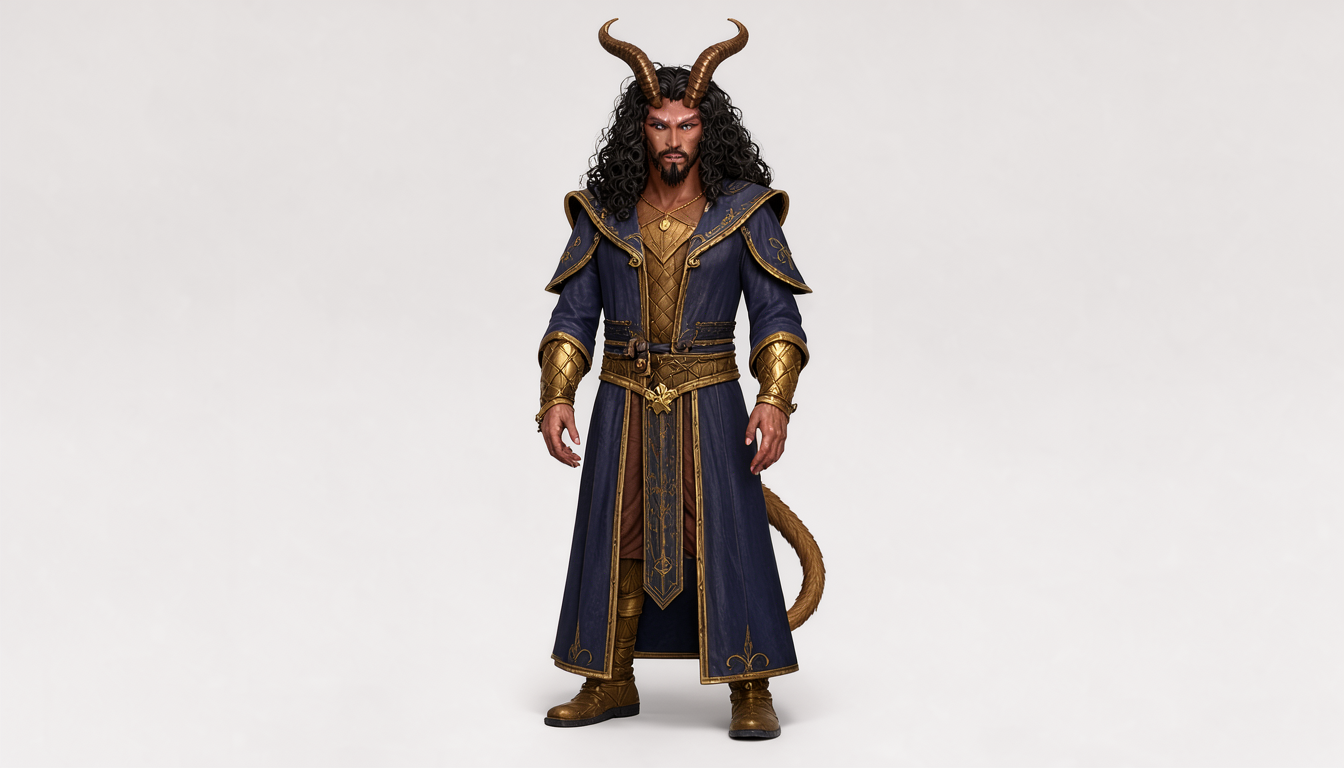
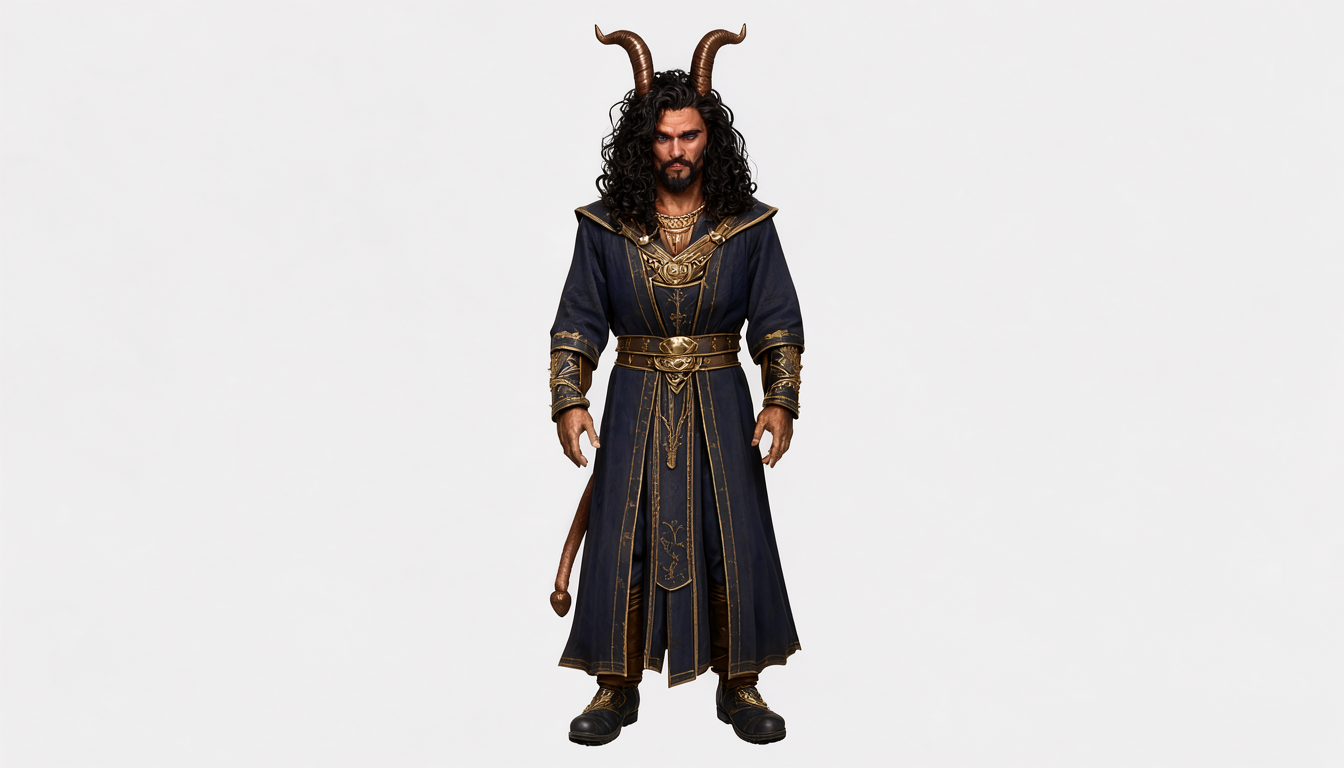
sheet-test: Keechwah lab batch 24 — tail origin and rounded tip, versioned snapshot

Changed region(s): [[0.375, 0.0312, 0.625, 0.9688]]

diff --git a/tests/test_keechwahlab.py b/tests/test_keechwahlab.py
@@ -15,11 +15,11 @@ SEEDS = [424242, 424243, 777001, 424244]
 # × the two cropped batch-19 seeds (r04=1602613270, r07=1826299574)
 BATCH20_KEYS = ["keechwah_f01", "keechwah_f02"]
 BATCH20_SEEDS = [1602613270, 1826299574]
-# Batch 23 ladder: skin-matched tail + 10-seed check (master list seed
-# 20261113, verified disjoint from all previously used seeds)
-BATCH23_KEYS = [f"keechwah_r{i:02d}" for i in range(1, 11)]
-BATCH23_SEEDS = [767302775, 78368171, 561025808, 1563703202, 41326234, 1966821292,
-                 282147160, 569109051, 408167238, 207977398]
+# Batch 24 ladder: tail origin + tip + 10-seed check (master list seed
+# 20261114, verified disjoint from all previously used seeds)
+BATCH24_KEYS = [f"keechwah_r{i:02d}" for i in range(1, 11)]
+BATCH24_SEEDS = [275196493, 1034690049, 2080267707, 553890622, 2135411846, 105476702,
+                 1879408468, 1015270008, 1846303153, 660577213]
 # Batch 3 ladder: 20-seed survey on the batch-2 block (master list seed
 # 20261104, verified disjoint from all previously used seeds)
 BATCH3_KEYS = [f"keechwah_r{i:02d}" for i in range(1, 21)]
@@ -34,18 +34,19 @@ ARM_B_BLOCK = (
     "gold jewelry, NO wings, sharply pointed canines, a thick tiefling tail behind him, "
     "exactly two arms"
 )
-# Batch 23: skin-matched tail — batch-22 keepers' tails read as a 3rd horn
-# (bronze-brown ridged material + upward hook). Same color words as the skin
-# forces coherence; hanging down breaks the horn-curl geometry.
-BATCH23_BLOCK = (
+# Batch 24: tail origin + tip — tails still misread after the skin-match
+# (batch 23 verdict pending human read, but the mechanism search continues:
+# origin at the spine separates tail from head-horns; rounded tip breaks the
+# pointed-horn silhouette match)
+BATCH24_BLOCK = (
     "adult male tiefling warlock, warm bronze-tan skin with a faint red cast, "
     "long curly black hair, goatee, large curved bronze-brown horns rising upright "
     "side by side from the crown of his skull with bases buried deep in his thick "
     "curly hair, narrow almond-shaped human eyes under heavy eyelids, solid matte "
     "purple irises filling the entire visible eye with no visible sclera or pupil, "
     "male facial features, dark blue and gold wizard robes, gold jewelry, NO wings, "
-    "sharply pointed canines, a thick warm bronze-tan tail hanging down behind one leg, "
-    "exactly two arms"
+    "sharply pointed canines, a thick warm bronze-tan tail growing from the base of "
+    "his spine, hanging straight down behind one leg to a rounded tip, exactly two arms"
 )
 
 
@@ -58,8 +59,9 @@ class TestKeechwahLabDescriptions(unittest.TestCase):
 
     def test_baseline_block_is_arm_b_verbatim(self):
         text, sources = self.load_block()
-        self.assertEqual(text, BATCH23_BLOCK, "batch-23 block must carry the skin-matched hanging tail")
-        self.assertIn("warm bronze-tan tail hanging down behind one leg", text)
+        self.assertEqual(text, BATCH24_BLOCK, "batch-24 block must carry tail origin + rounded tip")
+        self.assertIn("base of his spine", text)
+        self.assertIn("rounded tip", text)
         self.assertIn("character-bible/Sheets/Keechwah.pdf", sources)
         self.assertIn(KEECHWAH_URL, sources)
         self.assertTrue(any("bible.md locked chunks" in s for s in sources))
@@ -73,13 +75,13 @@ class TestKeechwahLabPrompts(unittest.TestCase):
 
     def test_lab_prompts_schema(self):
         prompts = self.load_prompts()
-        self.assertEqual(list(prompts), BATCH23_KEYS, "lab keys must be the batch-23 ladder in order")
+        self.assertEqual(list(prompts), BATCH24_KEYS, "lab keys must be the batch-24 ladder in order")
         text, _ = TestKeechwahLabDescriptions().load_block()
-        for i, key in enumerate(BATCH23_KEYS):
+        for i, key in enumerate(BATCH24_KEYS):
             entry = prompts[key]
             self.assertEqual(list(entry.keys()), PROMPT_KEYS, f"{key} key mismatch")
             self.assertEqual(entry["arm"], "C")
-            self.assertEqual(entry["seed"], BATCH23_SEEDS[i], f"{key} seed mismatch")
+            self.assertEqual(entry["seed"], BATCH24_SEEDS[i], f"{key} seed mismatch")
             self.assertEqual(entry["frame"], FRAME_C)
             self.assertEqual(entry["prompt"], f"{FRAME_C} {ADDENDUM} {text}", f"{key} not exact composition")
             self.assertIn(entry["output"], (None, f"img/{key}.png"))
@@ -90,9 +92,9 @@ class TestKeechwahLabPrompts(unittest.TestCase):
 
         stems = [os.path.splitext(os.path.basename(p))[0] for p in _glob.glob("workflows/keechwahlab_*.json")]
         found = {s.removeprefix("keechwahlab_") for s in stems}
-        self.assertEqual(found, set(BATCH23_KEYS), f"lab workflow set mismatch: {found}")
+        self.assertEqual(found, set(BATCH24_KEYS), f"lab workflow set mismatch: {found}")
         prompts = self.load_prompts()
-        for key in BATCH23_KEYS:
+        for key in BATCH24_KEYS:
             with open(f"workflows/keechwahlab_{key}.json", encoding="utf-8") as f:
                 g = json.load(f)
             seeds = [n["inputs"][k] for n in g.values() for k in ("seed", "noise_seed") if k in n.get("inputs", {})]

diff --git a/character-bible/sheet-test/keechwah-lab/README.md b/character-bible/sheet-test/keechwah-lab/README.md
@@ -38,6 +38,7 @@ overwrite — every generation snapshots to `batches/batch<N>/` with its
 | batch21 | Archetype noun instead of closure phrase: 'dark blue and gold wizard robes', no chest wording (closed invites a V-neck to close) | keechwah_k01-k04 (424242, 424243, 777001, 424244) |
 | batch22 | 25-seed survey on the batch-21 block (human-approved finished wording) | keechwah_r01-r25 (master list 20261112) |
 | batch23 | Skin-matched hanging tail (tail-as-3rd-horn finding on batch-22 keepers) + 10-seed check | keechwah_r01-r10 (new ladder) |
+| batch24 | Tail origin + tip: spine-rooted, hanging straight down, rounded tip (tails still misread after skin-match) + 10-seed check | keechwah_r01-r10 (new ladder) |
 | batch23 verdict (agent review 2026-11-02) | MIXED: tails read correctly on r02/r04/r06/r07/r08 (hanging thin terminators) but still hook horn-like on r01/r05/r09 and read as a stray limb on r03 - skin-match did not fix the read, so GEOMETRY (upward hook) dominates material. Robes open again on r03 (legs), partial chest V on r04/r05, full-open r10 - the batch-21 'wizard noun carries closure' conclusion was premature (4 lucky seeds). Keepers: r02/r06/r08. r07 has prominent pointed elf ears (matches gallery ref, DDB-silent). | - |
 | batch22 verdict (agent review 2026-11-02) | User keepers r11/r14/r19/r25 all legit - closed robes held 4/4, full bodies, tails, no wings. Favorite r19 (cleanest horn roots), r11 second. r14 reddest skin, r25 ram-swept horn shape (canon-legal, differs from gallery upright silhouette). Wording done - remaining variance is seed selection. | - |
 | batch22 verdict, tail addendum (human 2026-11-02) | The hip-level appendage reads as a 3rd horn on all four keepers: same bronze-brown ridged material as the horns, similar thickness, hooking upward like horns (worst r14/r25). Mechanism: material match + horn-like curl + hip placement with no visual break. Fix candidate: dark tail (near-black, matching hair instead of horns) hanging down behind one leg. | - |

diff --git a/character-bible/sheet-test/keechwah-lab/descriptions.md b/character-bible/sheet-test/keechwah-lab/descriptions.md
@@ -8,7 +8,7 @@ hooves, duplicate Keechwahs.
 
 ## Keechwah (keechwah)
 
-adult male tiefling warlock, warm bronze-tan skin with a faint red cast, long curly black hair, goatee, large curved bronze-brown horns rising upright side by side from the crown of his skull with bases buried deep in his thick curly hair, narrow almond-shaped human eyes under heavy eyelids, solid matte purple irises filling the entire visible eye with no visible sclera or pupil, male facial features, dark blue and gold wizard robes, gold jewelry, NO wings, sharply pointed canines, a thick warm bronze-tan tail hanging down behind one leg, exactly two arms
+adult male tiefling warlock, warm bronze-tan skin with a faint red cast, long curly black hair, goatee, large curved bronze-brown horns rising upright side by side from the crown of his skull with bases buried deep in his thick curly hair, narrow almond-shaped human eyes under heavy eyelids, solid matte purple irises filling the entire visible eye with no visible sclera or pupil, male facial features, dark blue and gold wizard robes, gold jewelry, NO wings, sharply pointed canines, a thick warm bronze-tan tail growing from the base of his spine, hanging straight down behind one leg to a rounded tip, exactly two arms
 
 Sources:
 - character-bible/Sheets/Keechwah.pdf

diff --git a/character-bible/sheet-test/keechwah-lab/batches/batch24/descriptions.md b/character-bible/sheet-test/keechwah-lab/batches/batch24/descriptions.md
@@ -1,0 +1,16 @@
+# Keechwah Lab — baseline block for seed-robustness testing
+
+Single block source for `keechwah-lab`. Batch 1 is the Arm B Keechwah
+block verbatim (the starting point, as the Shade lab began from its
+Arm B block). Known failure modes from the bible NEVER list to watch
+for: female render, wings (Verruth confusion — Keechwah has NONE),
+hooves, duplicate Keechwahs.
+
+## Keechwah (keechwah)
+
+adult male tiefling warlock, warm bronze-tan skin with a faint red cast, long curly black hair, goatee, large curved bronze-brown horns rising upright side by side from the crown of his skull with bases buried deep in his thick curly hair, narrow almond-shaped human eyes under heavy eyelids, solid matte purple irises filling the entire visible eye with no visible sclera or pupil, male facial features, dark blue and gold wizard robes, gold jewelry, NO wings, sharply pointed canines, a thick warm bronze-tan tail growing from the base of his spine, hanging straight down behind one leg to a rounded tip, exactly two arms
+
+Sources:
+- character-bible/Sheets/Keechwah.pdf
+- https://www.dndbeyond.com/species/7-tiefling
+- bible.md locked chunks (main checkout)
